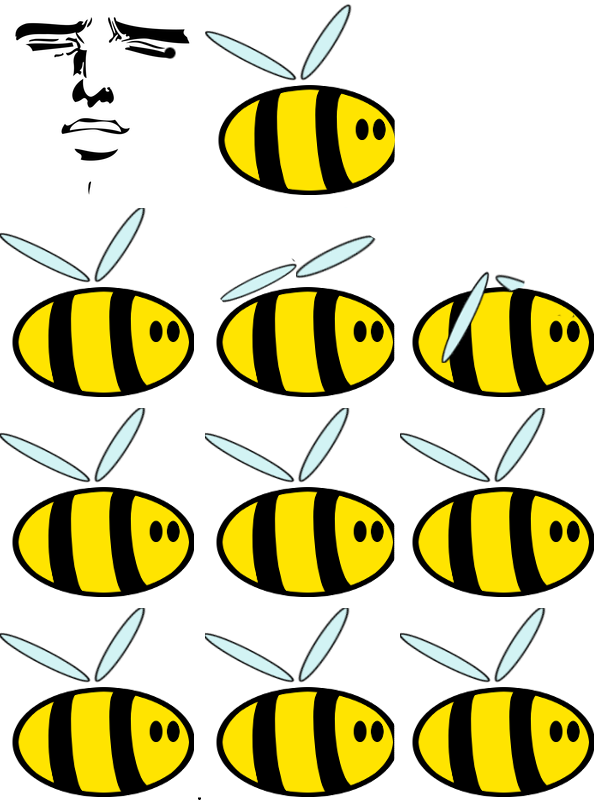
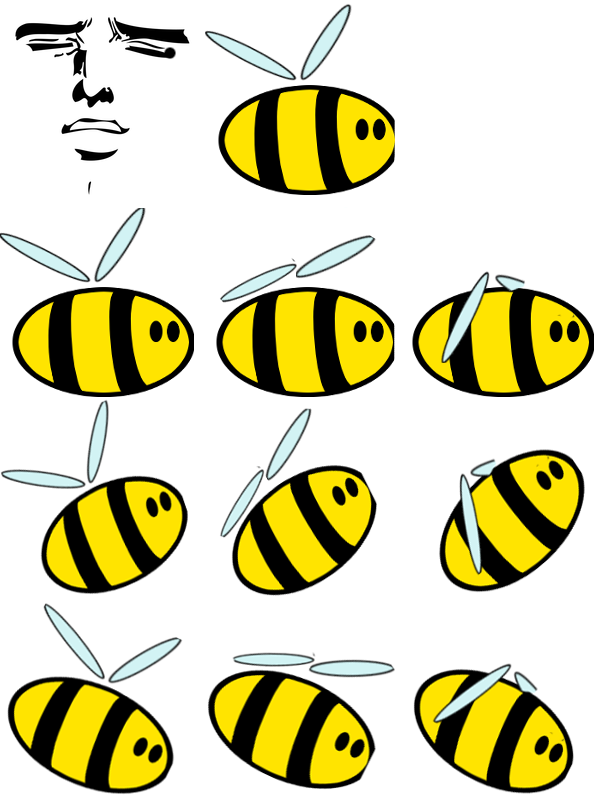
changed ohgodwhy sprite sheet

Changed region(s): [[0.0, 0.5, 0.66, 1.0], [0.66, 0.5, 0.99, 1.0]]

diff --git a/WindowsGame1/WindowsGame1/Bee.cs b/WindowsGame1/WindowsGame1/Bee.cs
@@ -92,7 +92,7 @@ namespace WindowsGame1
             if (aCurrentKeyboardState.IsKeyDown(Keys.F) == true)
             {
 
-                Flight();
+                Flight(aCurrentKeyboardState);
 
             }
 
@@ -106,7 +106,7 @@ namespace WindowsGame1
 
 
 
-        private void Flight()
+        private void Flight(KeyboardState aCurrentKeyboardState)
         {
 
             if (mCurrentState == State.Walking)
@@ -116,74 +116,14 @@ namespace WindowsGame1
                 mDirection = Vector2.Zero;
 
                 mCurrentState = State.Flying;
+                //set counter to 30? 
                
             }
 
             if(mCurrentState == State.Flying)
             {
 
-                 if(gifpos <= 3)
-                {
-                    if (gifpos <= 1)
-                    {
-                        Source = new Rectangle(0, 200, 200, 200);
-                        if(back)
-                        {
-                            if(gifpos > 0)
-                            {
-                                gifpos--;
-                            }
-                            else
-                            {
-                                gifpos++;
-                                back = false; 
-                            }
-                            
-                        }
-                        else
-                        {
-                            gifpos++;
-                            back = false; 
-                        }
-                       
-                    }
-                    if (gifpos <= 2 && gifpos >= 2)
-                    {
-                        Source = new Rectangle(200, 200, 200, 200);
-                        if (back)
-                        {
-                            gifpos--;
-                        }
-                        else
-                        {
-                            gifpos++;
-                        }
-                    }
-                    if (gifpos <= 3 && gifpos >= 3)
-                    {
-                        Source = new Rectangle(400, 200, 200, 200);
-
-                        if (!back)
-                        {
-                            if (gifpos < 3)
-                            {
-                                gifpos++;
-                            }
-                            else
-                            {
-                                gifpos--;
-                                back = true;
-                            }
-
-                        }
-                        else
-                        {
-                            gifpos--;
-                        }
-
-                    }
-
-                }
+                FlightAnimation(aCurrentKeyboardState);
 
             }
 
@@ -200,6 +140,76 @@ namespace WindowsGame1
 
             }
         }
+
+
+
+        private void FlightAnimation(KeyboardState aCurrentKeyboardState)
+        {
+            if (gifpos <= 3)
+            {
+                if (gifpos <= 1)
+                {
+                    Source = new Rectangle(0, 200, 200, 200);
+                    if (back)
+                    {
+                        if (gifpos > 0)
+                        {
+                            gifpos--;
+                        }
+                        else
+                        {
+                            gifpos++;
+                            back = false;
+                        }
+
+                    }
+                    else
+                    {
+                        gifpos++;
+                        back = false;
+                    }
+
+                }
+                if (gifpos <= 2 && gifpos >= 2)
+                {
+                    Source = new Rectangle(200, 200, 200, 200);
+                    if (back)
+                    {
+                        gifpos--;
+                    }
+                    else
+                    {
+                        gifpos++;
+                    }
+                }
+                if (gifpos <= 3 && gifpos >= 3)
+                {
+                    Source = new Rectangle(400, 200, 200, 200);
+
+                    if (!back)
+                    {
+                        if (gifpos < 3)
+                        {
+                            gifpos++;
+                        }
+                        else
+                        {
+                            gifpos--;
+                            back = true;
+                        }
+
+                    }
+                    else
+                    {
+                        gifpos--;
+                    }
+
+                }
+
+            }
+        }
+
+
 
 
 
